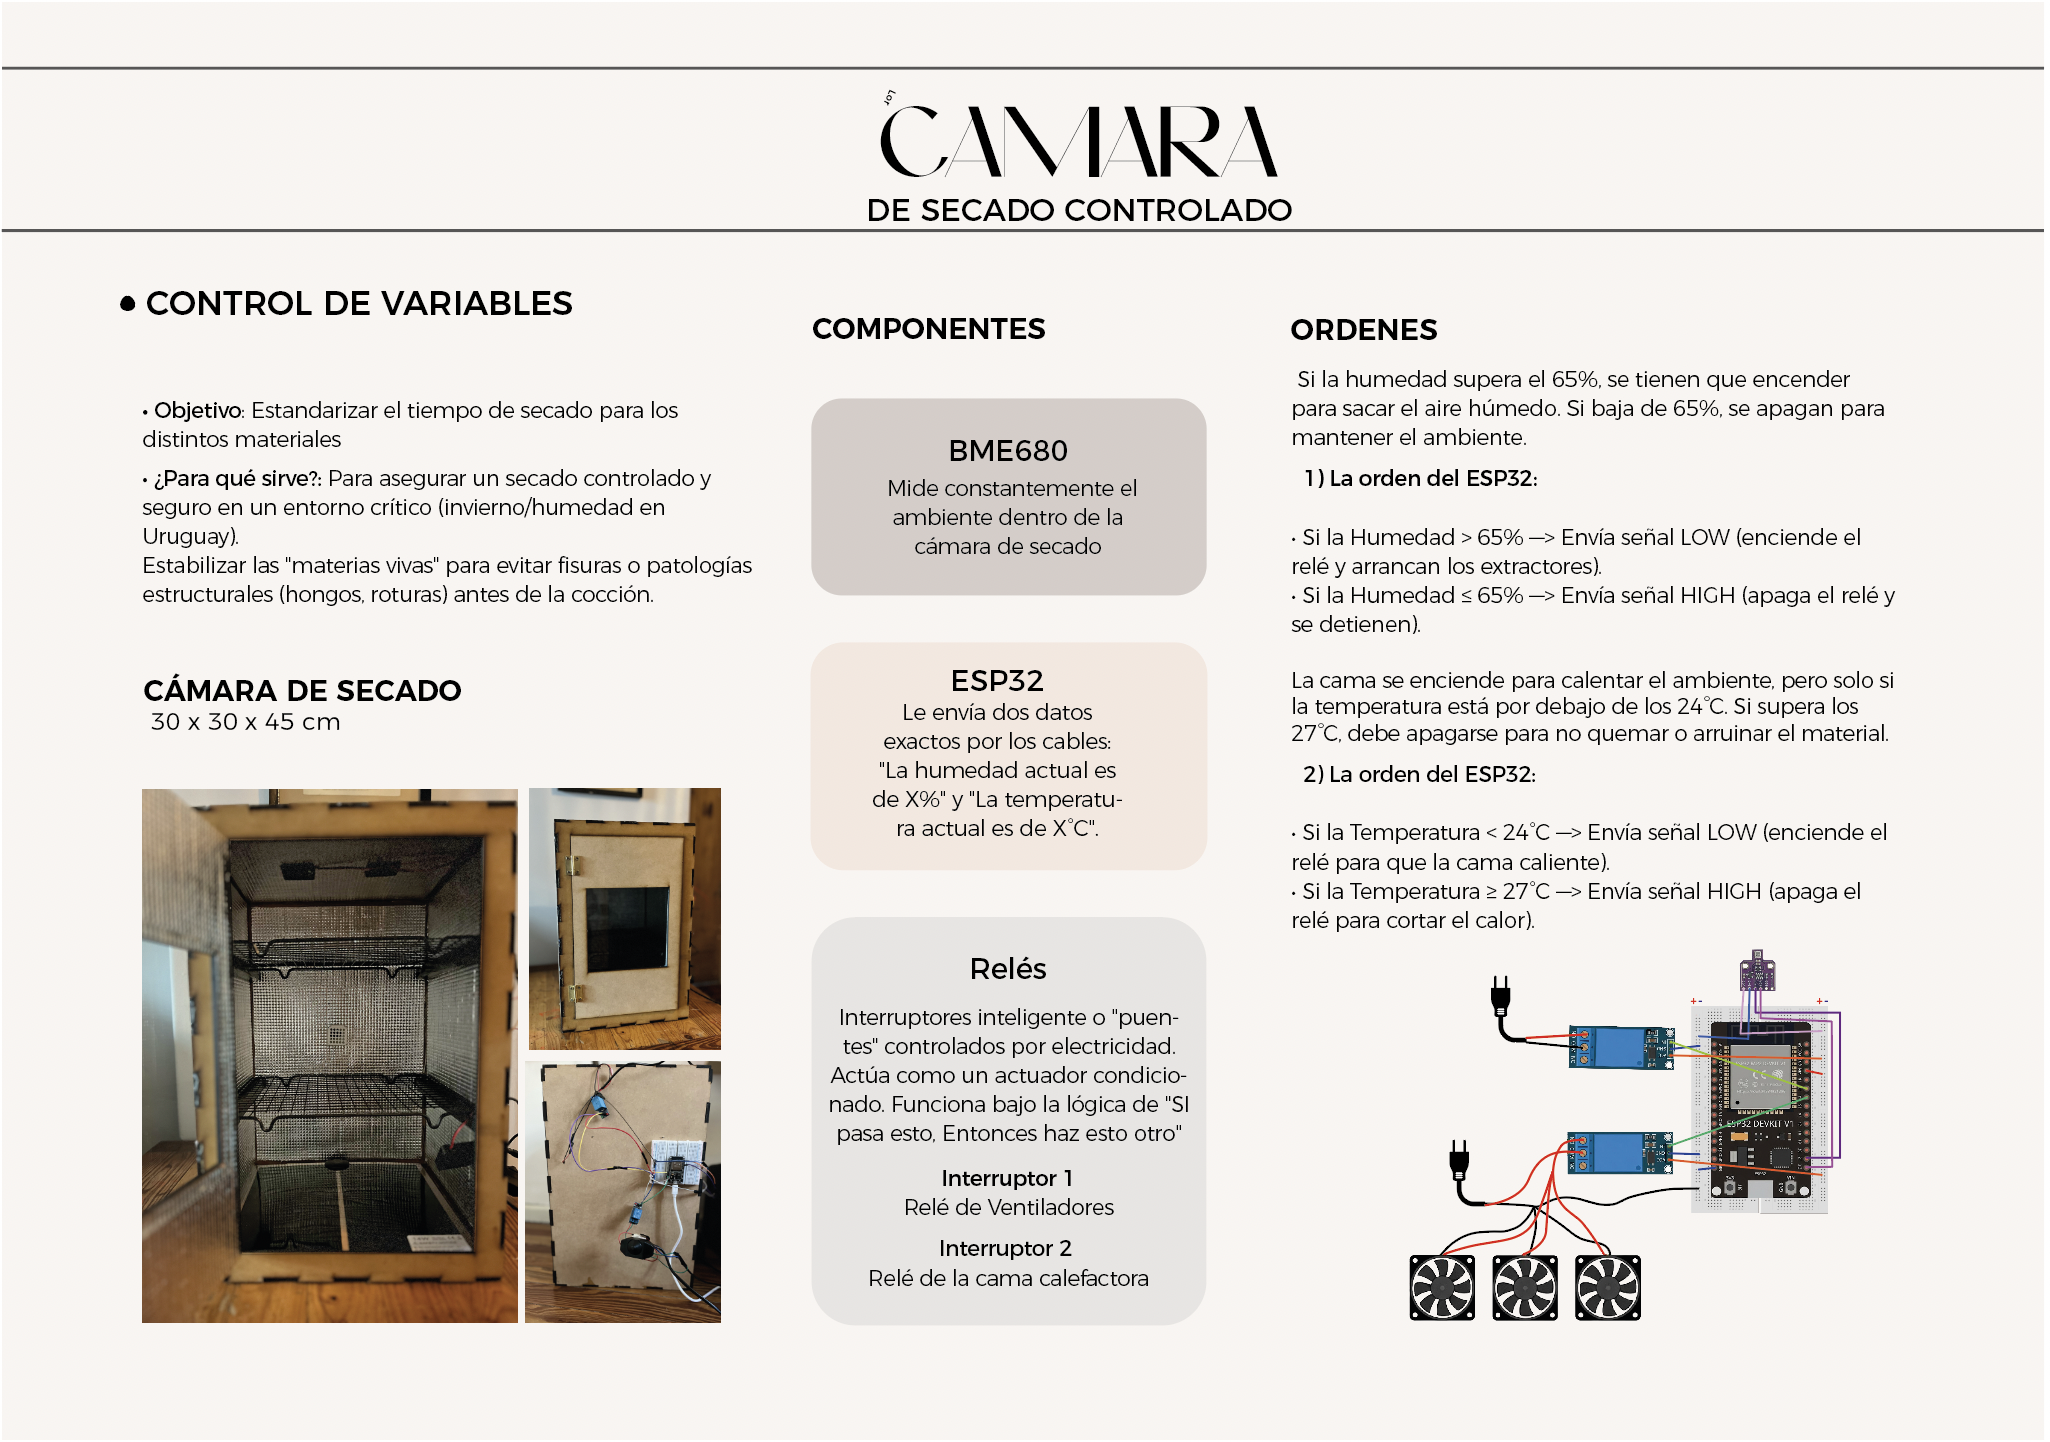
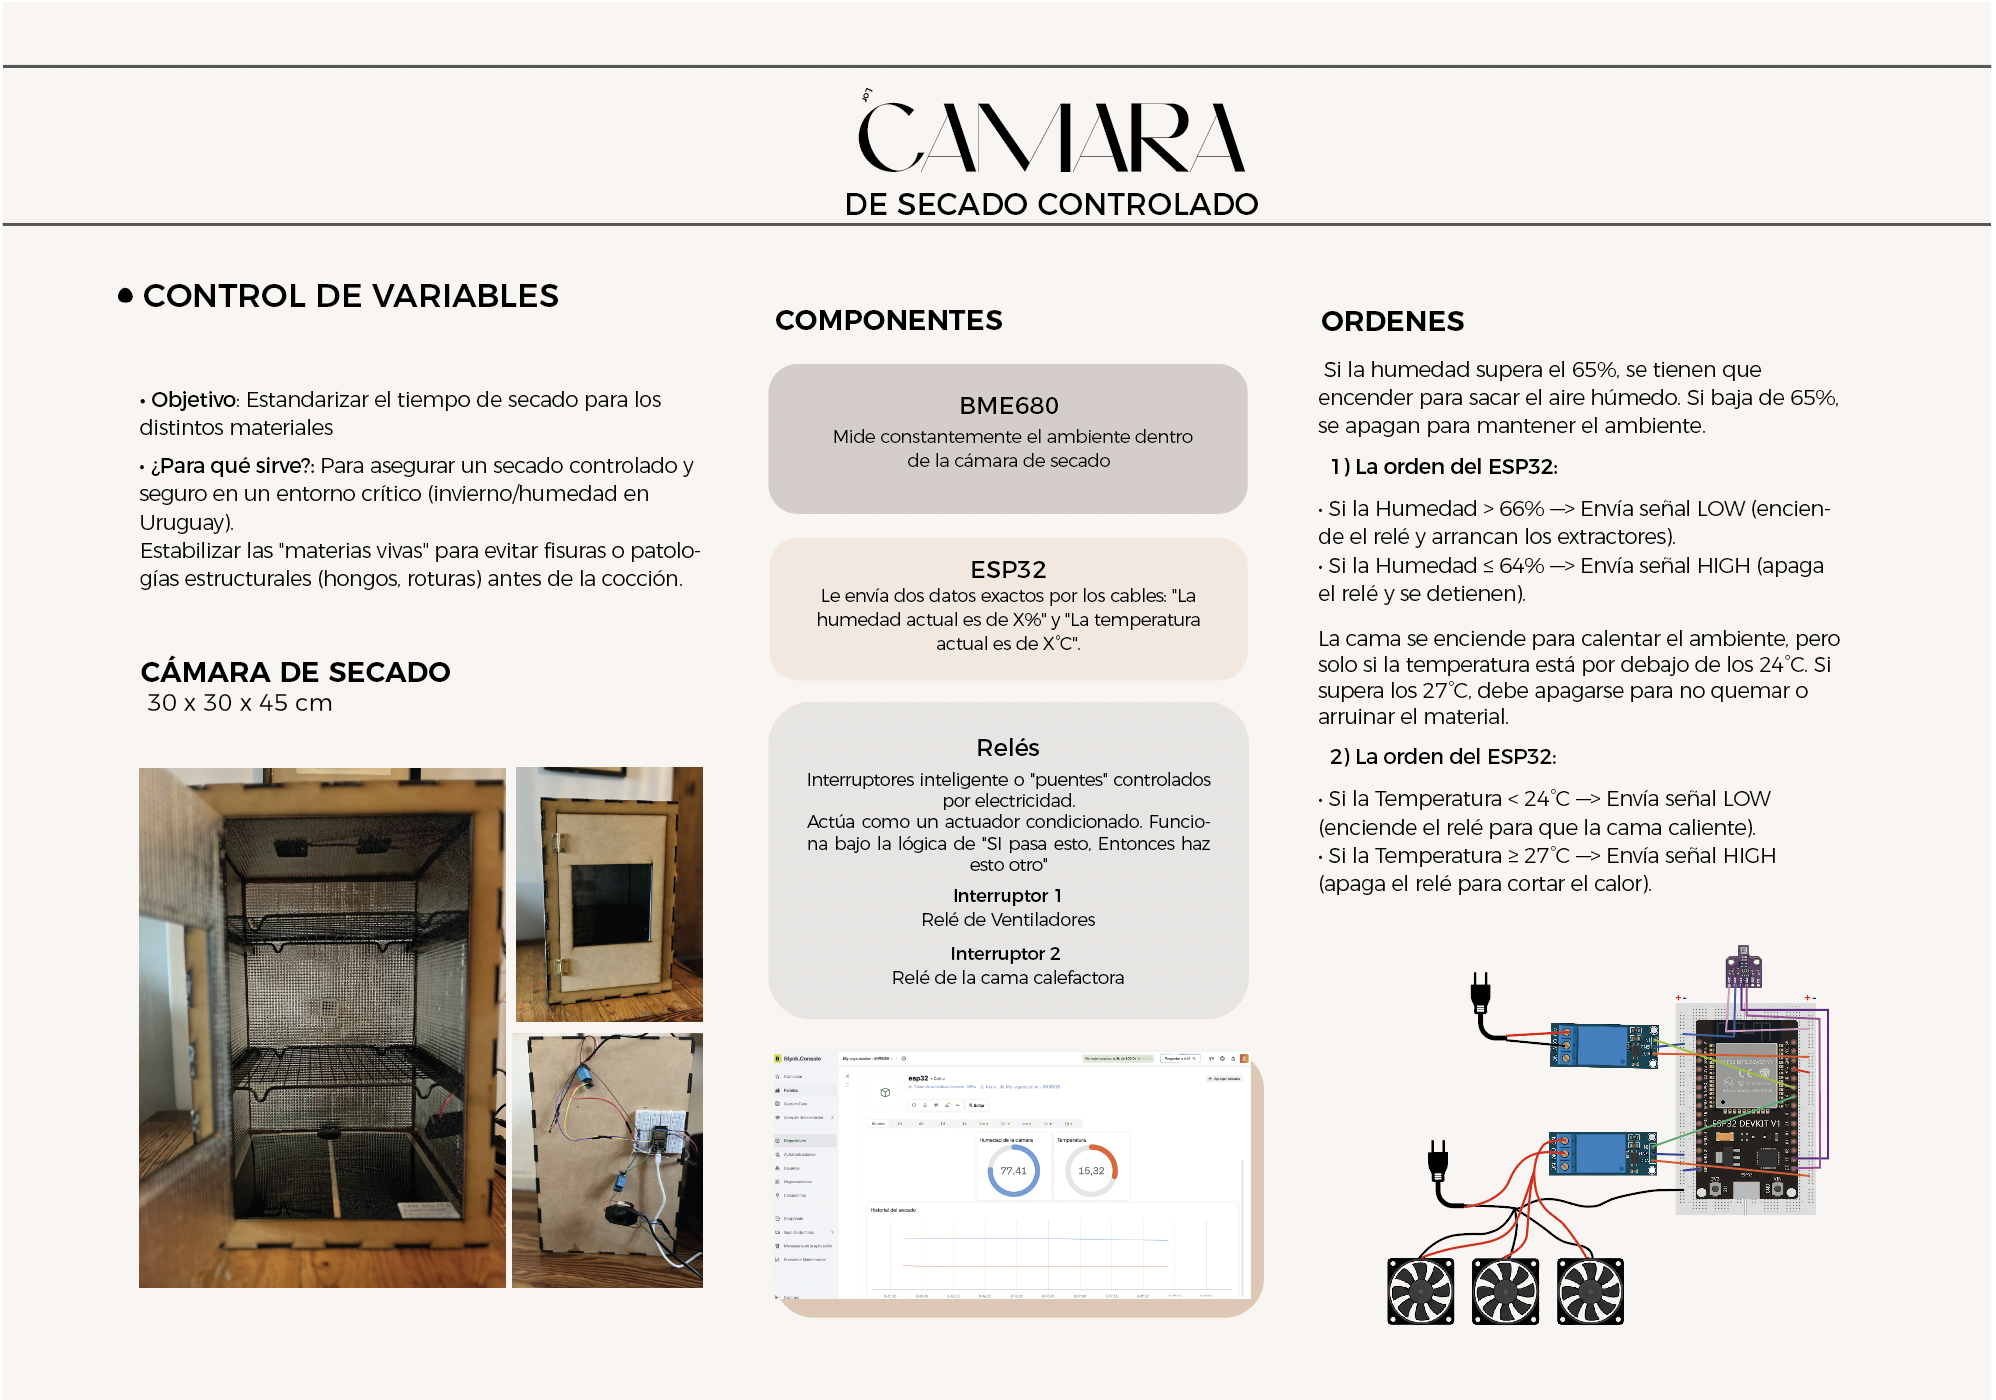
diapo4

diff --git a/docs/proyecto/ideas-iniciales.md b/docs/proyecto/ideas-iniciales.md
@@ -23,7 +23,7 @@ Antecedentes y Estado del Arte.
 
 **Perfil y Conocimientos Previos**
 
-Mi punto de partida en esta investigación se cimenta en mi formación como **Diseñadora Industrial**. A lo largo de mi práctica, he desarrollado experiencia en el comportamiento y modelado de arcillas cerámicas, así como en aproximaciones prácticas al campo de los tintes naturales, los biomateriales y la fabricación digital.
+Mi punto de partida en esta investigación se cimenta en mi formación como Diseñadora Industrial. A lo largo de mi práctica, he desarrollado experiencia en el comportamiento y modelado de arcillas cerámicas, así como en aproximaciones prácticas al campo de los tintes naturales, los biomateriales y la fabricación digital.
 El cruce propuesto en está especialización nace de la intención de aplicar la sensibilidad del diseño y el oficio artesanal a procesos de manufactura más precisos, tecnológicos y sustentables. Este camino se nutre, además, del diálogo con mi maestra ceramista y del acompañamiento del equipo docente interdisciplinario, cuyos saberes abarcan desde la electrónica y la automatización hasta la ciencia de los biomateriales.
 
 **Antecedentes y Estado del Arte**
